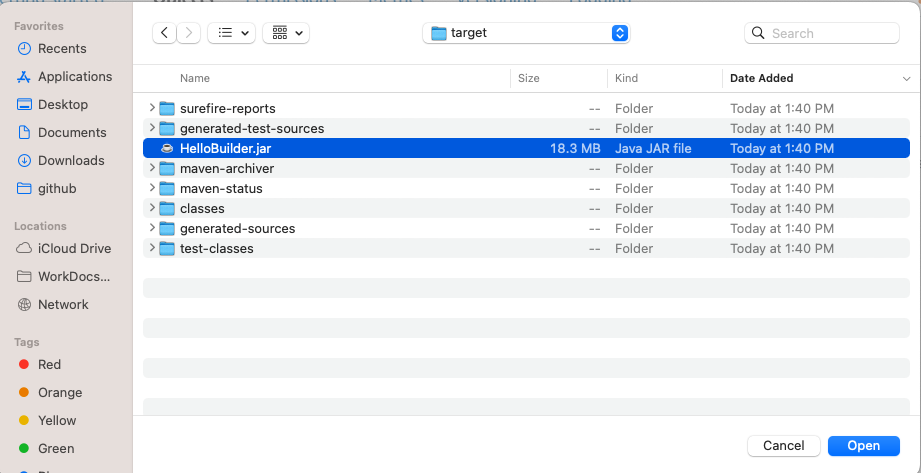
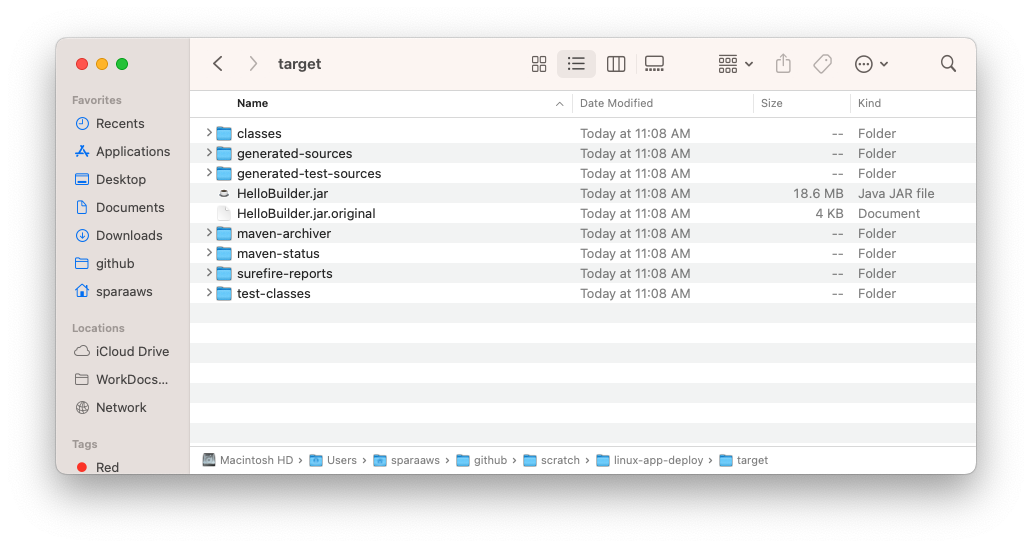
respond to comments

Changed region(s): [[0.0, 0.0, 1.0, 1.0], [0.7296, 0.1776, 0.76, 0.2072], [0.6688, 0.148, 0.6992, 0.1776]]

diff --git a/tutorials/practical-cloud-guide/deploy-a-java-application-on-linux/index.md b/tutorials/practical-cloud-guide/deploy-a-java-application-on-linux/index.md
@@ -12,9 +12,9 @@ authorName: "Sophia Parafina"
 date: 2023-05-31
 ---
 
-The [previous tutorial](/tutorials/practical-cloud-guide/deploy-an-asp-net-core-application-on-windows-server-with-aws-lightsail/) demonstrated how to create a Windows Server VPS and deploy an ASP.NET Core application. A common and similar task is deploying a Java application on a Linux server. While Javascript frameworks such as Express.js have increased in popularity for applications in the cloud, Java frameworks such as SpringBoot are equally popular in enterprise environments.
+The [previous tutorial](/tutorials/practical-cloud-guide/deploy-an-asp-net-core-application-on-windows-server-with-aws-lightsail/?sc_channel=el&sc_campaign=practical_cloud_guide&sc_geo=mult&sc_country=mult&sc_outcome=acq) demonstrated how to create a Windows Server VPS and deploy an ASP.NET Core application. A common and similar task is deploying a Java application on a Linux server. While Javascript frameworks such as Express.js have increased in popularity for applications in the cloud, Java frameworks such as SpringBoot are equally popular in enterprise environments.
 
-This tutorial demonstrates how to deploy a Java application on a Linux Virtual Private Server (VPS) with AWS Lightsail. If you’re unfamiliar with AWS Lightsail check out the overview in the [previous tutorial](/tutorials/practical-cloud-guide/deploy-an-asp-net-core-application-on-windows-server-with-aws-lightsail/). We’ll use the previous DevOps scenario where the software is compiled by a CI/CD and stored in an S3 bucket. You copy the software or artifact from AWS S3 bucket or object store to deploy on a Linux VPS.
+This tutorial demonstrates how to deploy a Java application on a Linux Virtual Private Server (VPS) with AWS Lightsail. If you’re unfamiliar with AWS Lightsail check out the overview in the [previous tutorial](/tutorials/practical-cloud-guide/deploy-an-asp-net-core-application-on-windows-server-with-aws-lightsail/?sc_channel=el&sc_campaign=practical_cloud_guide&sc_geo=mult&sc_country=mult&sc_outcome=acq). We’ll use the previous DevOps scenario where the software is compiled by a CI/CD and stored in an S3 bucket. You copy the software or artifact from AWS S3 bucket or object store to deploy on a Linux VPS.
 
 ## What you will learn
 
@@ -26,9 +26,11 @@ This tutorial demonstrates how to deploy a Java application on a Linux Virtual P
 
 Before starting this tutorial, you will need the following:
 
-- An AWS account: If you don't already have an account, follow the [Setting Up Your Environment](https://aws.amazon.com/getting-started/guides/setup-environment/) tutorial. For a quick overview for creating account follow the [Create Your AWS Account](http://%20https://aws.amazon.com/getting-started/guides/setup-environment/module-one/) instructions.
+- An AWS account: If you don't already have an account, follow the [Setting Up Your Environment](https://aws.amazon.com/getting-started/guides/setup-environment/?sc_channel=el&sc_campaign=practical_cloud_guide&sc_geo=mult&sc_country=mult&sc_outcome=acq) tutorial. For a quick overview for creating account follow the [Create Your AWS Account](http://aws.amazon.com/getting-started/guides/setup-environment/module-one/?sc_channel=el&sc_campaign=practical_cloud_guide&sc_geo=mult&sc_country=mult&sc_outcome=acq) instructions.
 - AWS credentials: Follow the instructions in [Access Your Security Credentials](https://aws.amazon.com/blogs/security/how-to-find-update-access-keys-password-mfa-aws-management-console/#:~:text=Access%20your%20security%20credentials) to get your AWS credentials
 - A git client: Follow the instructions to [Install Git](https://github.com/git-guides/install-git) for your operating system.
+- [Java](https://docs.aws.amazon.com/corretto/latest/corretto-11-ug/what-is-corretto-11.html) installed locally.
+- [Maven](https://maven.apache.org/index.html) installed locally.
 
 ## Sections
 
@@ -37,8 +39,8 @@ Before starting this tutorial, you will need the following:
 | ✅ AWS Level        | 100 - Beginner                          |
 | ⏱ Time to complete  | 45 minutes                             |
 | 💰 Cost to complete | Free when using the AWS Free Tier or USD 1.01      |
-| 🧩 Prerequisites    | - An AWS account: If you don't already have an account, follow the [Setting Up Your Environment](https://aws.amazon.com/getting-started/guides/setup-environment/) tutorial. For a quick overview for creating account follow the [Create Your AWS Account](http://%20https://aws.amazon.com/getting-started/guides/setup-environment/module-one/) instructions.<br>- AWS credentials: Follow the instructions in [Access Your Security Credentials](https://aws.amazon.com/blogs/security/how-to-find-update-access-keys-password-mfa-aws-management-console/#:~:text=Access%20your%20security%20credentials) to get your AWS credentials<br>- A git client: Follow the instructions to [Install Git](https://github.com/git-guides/install-git) for your operating system.|
-| 💻 Code Sample         | [GitHub](<link if you have a code sample associated with the post, otherwise delete this line>)                             |
+| 🧩 Prerequisites    | - An AWS account: If you don't already have an account, follow the [Setting Up Your Environment](https://aws.amazon.com/getting-started/guides/setup-environment/?sc_channel=el&sc_campaign=practical_cloud_guide&sc_geo=mult&sc_country=mult&sc_outcome=acq) tutorial. For a quick overview for creating account follow the [Create Your AWS Account](http://aws.amazon.com/getting-started/guides/setup-environment/module-one/?sc_channel=el&sc_campaign=practical_cloud_guide&sc_geo=mult&sc_country=mult&sc_outcome=acq) instructions.<br>- AWS credentials: Follow the instructions in [Access Your Security Credentials](https://aws.amazon.com/blogs/security/how-to-find-update-access-keys-password-mfa-aws-management-console/#:~:text=Access%20your%20security%20credentials) to get your AWS credentials<br>- A git client: Follow the instructions to [Install Git](https://github.com/git-guides/install-git) for your operating system.<br>- [Java](https://docs.aws.amazon.com/corretto/latest/corretto-11-ug/what-is-corretto-11.html) installed locally.<br>- [Maven](https://maven.apache.org/index.html) installed locally.|
+| 💻 Code Sample         | [GitHub](https://github.com/build-on-aws/practical-cloud-guide-code/tree/linux-app-deploy/run-to-build/linux-app-deploy)                             |
 | 📢 Feedback            | <a href="https://pulse.buildon.aws/survey/DEM0H5VW" target="_blank">Any feedback, issues, or just a</a> 👍 / 👎 ?    |
 | ⏰ Last Updated     | 2023-05-31                             |
 
@@ -46,7 +48,30 @@ Before starting this tutorial, you will need the following:
 |-----|
 
 ---
-## Module 1: Create an S3 bucket and upload files
+## Module 1: Clone and compile the application.
+
+### Overview
+
+The Java application for the tutorial is on Github. You will clone the repository (optional if you have completed this in a previous tutorial). The project uses Maven to compile and package the application into a .jar file. 
+
+### Implementation
+
+The application for this tutorial is on GitHub. Clone the application (optional if you have done this in a previous tutorial).
+
+```bash
+git clone https://github.com/build-on-aws/practical-cloud-guide-code
+```
+
+Compile the application to a .jar with maven.
+
+```bash
+cd ./practical-cloud-guide-code/run-to-build/linux-app-deploy/
+mvn package
+```
+
+Maven will compile the code, create a `target` directory, and create a `HelloBuilder.jar` file.
+
+## Module 2: Create an S3 bucket and upload files
 
 ### Overview
 
@@ -58,25 +83,19 @@ In this module, the software is in a GitHub repository. You will clone the repos
 
 ### Implementation Instructions
 
-> Steps 1-3 are optional if you completed the Deploy an ASP.NET Core Application on Windows Server with AWS Lightsail [tutorial](/tutorials/practical-cloud-guide/deploy-an-asp-net-core-application-on-windows-server-with-aws-lightsail/).
+> Steps 1-2 are optional if you completed the Deploy an ASP.NET Core Application on Windows Server with AWS Lightsail [tutorial](/tutorials/practical-cloud-guide/deploy-an-asp-net-core-application-on-windows-server-with-aws-lightsail/).
 
-Step 1: Clone the practical-cloud-guide repository.
-
-```powershell
-git clone https://github.com/build-on-aws/practical-cloud-guide-code
-```
-
-Step 2: Open the AWS Console and choose Lightsail.
+Step 1: Open the AWS Console and choose Lightsail.
 
 ![Open AWS Lightsail](./images/PCG-1-lightsail.png)
 
-Step 3: Create an S3 bucket
+Step 2: Create an S3 bucket
 
 Choose **Storage**.
 
 ![Choose Storage in the Lightsail menu](./images/lightsail-s3-bucket-1.png)
 
-In the **Create a new bucket** page choose the **5GB storage plan** and name the bucket `practical-cloud-guide`. Select **Create Bucket**.
+In the **Create a new bucket** page choose the **5GB storage plan** and name the bucket with a unique name such as `<my>-practical-cloud-guide`. Select **Create Bucket**.
 
 ![Create an S3 bucket](./images/lightsail-s3-bucket-2.png)
 
@@ -95,13 +114,13 @@ Choose **File**.
 Select `HelloBuilder.jar` from the `./practical-cloud-guide-code/run-to-build
 /linux-app-deploy/target/` and choose **Open**.
 
-![Choose File](./images/lightsail-s3-bucket-linux-1.png)
+![Choose the HelloBuilder.jar](./images/lightsail-s3-bucket-linux-1.png)
 
 The file will be added to the **Object list**.
 
-![Choose File](./images/lightsail-s3-bucket-linux-2.png)
+![Files listed](./images/lightsail-s3-bucket-linux-2.png)
 
-## Module 2: Deploy an Amazon Linux Server
+## Module 3: Deploy an Amazon Linux Server
 
 ### Overview
 
@@ -135,14 +154,14 @@ Choose **Add launch script**.
 
 Configure an instance at launch by adding a shell script that runs when instance starts. The script exports your access key, secret key, and AWS region. These are temporary credentials only available at launch. The script needs your credentials to copy the SpringBoot application, HelloBuilder.jar, from your S3 bucket. Note that AWS CLI commands are available to use in the script. After the script copies the jar file, it installs Java and starts the application.
 
-Copy the script add your credentials and AWS region.
+Copy the script add your credentials, AWS region, and the name of your S3 bucket.
 
 ```bash
 export AWS_ACCESS_KEY_ID=<your_access_key>
 export AWS_SECRET_ACCESS_KEY=<your_secret_key>
 export AWS_REGION=<your_aws_region>
 
-aws s3 cp s3://practical-cloud-guide/HelloBuilder.jar /home/ec2-user/HelloBuilder.jar
+aws s3 cp s3://<my>-practical-cloud-guide/HelloBuilder.jar /home/ec2-user/HelloBuilder.jar
 sudo yum -y install java-17-amazon-corretto-headless
 java -jar /home/ec2-user/HelloBuilder.jar
 ```
@@ -157,7 +176,7 @@ Name your instance, for example `Amazon_Linux_2_Java`. Choose **Create instance*
 
 ![Name the instance.](./images/lightsail-linux-vps-7.png)
 
-## Module 3: Configure networking
+## Module 4: Configure networking
 
 The Lightsail Linux VPS includes both a private and public IP address. However, only `port 22` and `port 80` are open by default. The Java application is running but available on port 8080. In this module, you will configure networking to open `port 8080` and add a static IP address.
 
@@ -197,7 +216,7 @@ From the Lightsail Home menu, choose **Networking**.
 
 Choose **Create static IP**.
 
-![Choose Networking.](./images/lightsail-linux-networking-8.png)
+![Choose Create static IP.](./images/lightsail-linux-networking-8.png)
 
 Attach a static IP to and instance. Choose the VPS you created.
 
@@ -209,9 +228,9 @@ Give the static IP a unique name. Choose **Create**.
 
 Open a browser to the static IP on port 80 and the Java application returns a page with a message the time.
 
-![Name the static IP.](./images/lightsail-linux-networking-11.png)
+![Open browser to see application](./images/lightsail-linux-networking-11.png)
 
-## Module 4: Clean up
+## Module 5: Clean up
 
 To prevent additional costs, delete the Linux VPS created for the tutorial. Deleting the S3 bucket is optional. You can keep the S3 bucket to use with other tutorials.
 
@@ -241,7 +260,7 @@ Choose **Force Delete** to delete the files and the S3 bucket.
 
 ## What did you accomplish?
 
-In this module you deployed a Linux VPS using Lightsail. The instance was configured by providing a script to download and install the jar file and a Java JDK to run the SpringBoot application. In a future tutorial, you will use the User Data feature to configure virtual machines or [Elastic Cloud Compute (EC2)](https://aws.amazon.com/ec2/) instances with a launch script. Note that your AWS credentials were only available at launch and not retained by the VPS.
+In this module you deployed a Linux VPS using Lightsail. The instance was configured by providing a script to download and install the jar file and a Java JDK to run the SpringBoot application. In a future tutorial, you will use the User Data feature to configure virtual machines or [Elastic Cloud Compute (EC2)](https://docs.aws.amazon.com/AWSEC2/latest/UserGuide/concepts.html) instances with a launch script. Note that your AWS credentials were only available at launch and not retained by the VPS.
 
 Only ports 22 and 80 are open by default in a VPS. With Lightsail, you can open and close ports using the web console instead of manually configuring the network on the server. This is also true for adding a static IP address that ensures the application has a fixed IP address regardless if the instance has been restarted.
 
